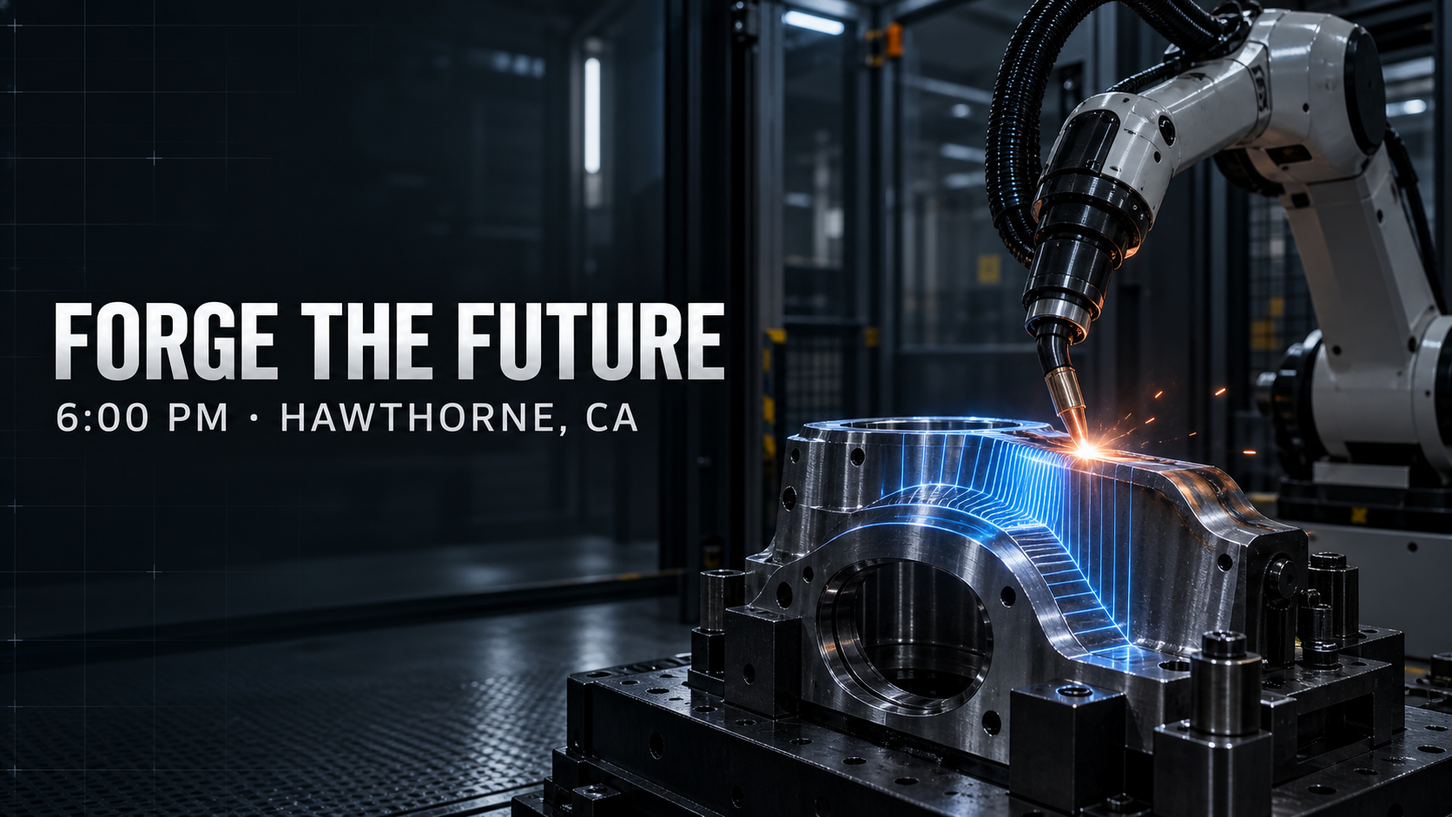
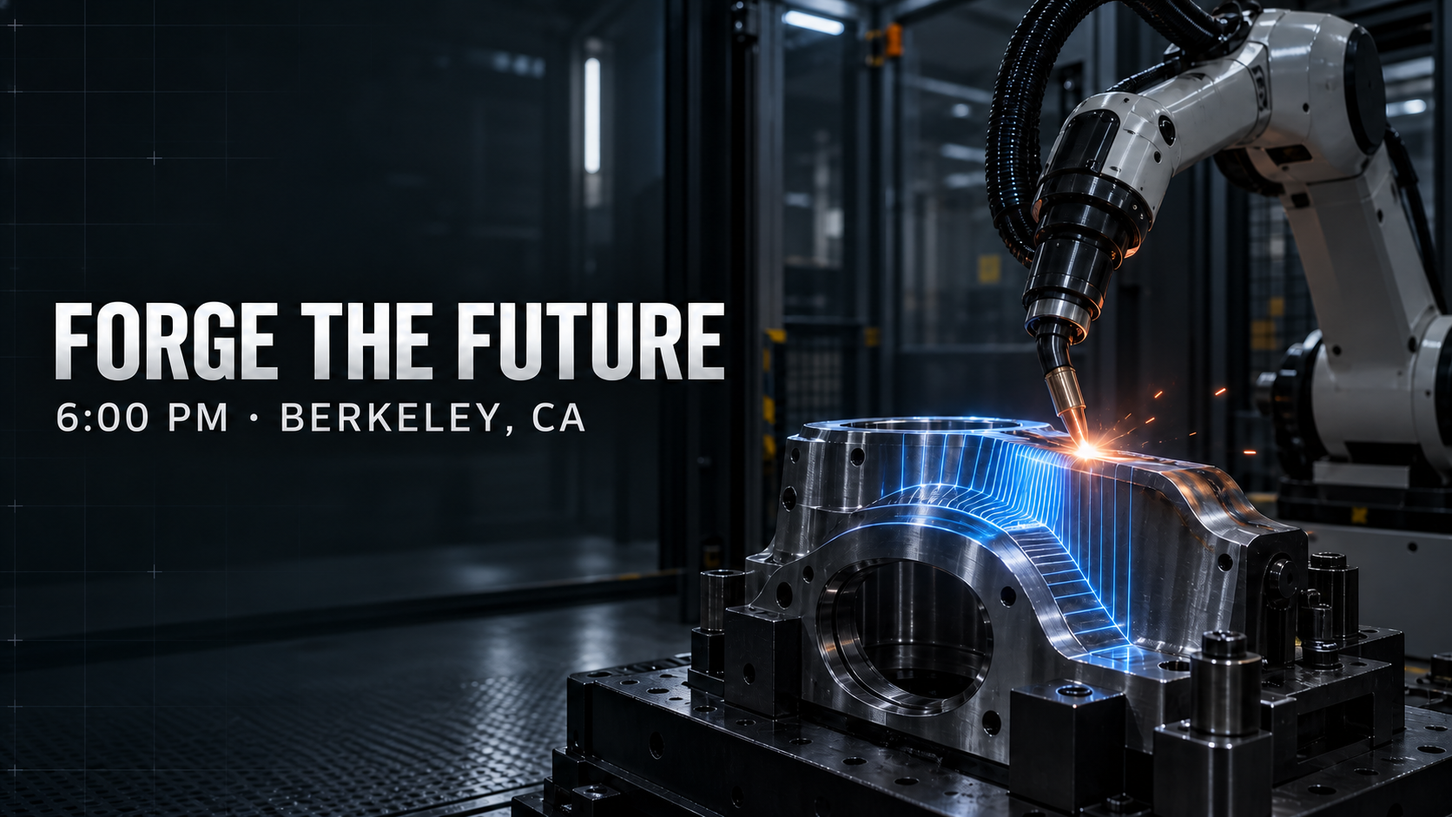
Move event to Berkeley and compact page

diff --git a/app/page.tsx b/app/page.tsx
@@ -2,61 +2,28 @@
 
 import Image from 'next/image';
 import {
-  ArrowDown,
   ArrowRight,
   ArrowUpRight,
   Bot,
-  Box,
+  BriefcaseBusiness,
   Check,
   CircuitBoard,
   Clock3,
-  Cpu,
   DraftingCompass,
-  Eye,
-  Factory,
   Flame,
-  Gauge,
+  MapPin,
   ScanLine,
   Share2,
-  Sparkles,
-  Wrench,
 } from 'lucide-react';
 import { useState } from 'react';
 
-const disciplines = ['Advanced manufacturing', 'Metallurgy', 'AI', 'Robotics'];
+const topics = ['Advanced manufacturing', 'Metallurgy', 'AI', 'Robotics'];
 
-const agenda = [
-  {
-    number: '01',
-    title: 'From CAD to robot path',
-    copy: 'Trace the mechanical stack from part geometry, fixtures and workholding to collision-free motion.',
-    icon: DraftingCompass,
-  },
-  {
-    number: '02',
-    title: 'See the weld',
-    copy: 'Explore cameras, sensors, calibration and structured-light inspection as the cell builds a 3D understanding.',
-    icon: ScanLine,
-  },
-  {
-    number: '03',
-    title: 'Close the loop',
-    copy: 'Connect heat, material behavior and metallurgical evidence to the next, better weld.',
-    icon: Flame,
-  },
-  {
-    number: '04',
-    title: 'Bring the hard problem',
-    copy: 'Swap ideas with builders working across robotics, controls, manufacturing software and applied AI.',
-    icon: Wrench,
-  },
-];
-
-const loop = [
-  { label: 'Build', detail: 'Robots + cells', icon: Bot },
-  { label: 'Weld', detail: 'Hard production parts', icon: Flame },
-  { label: 'See', detail: 'Geometry + quality', icon: Eye },
-  { label: 'Learn', detail: 'Improve the next weld', icon: Cpu },
+const program = [
+  { title: 'CAD → path', detail: 'Geometry, fixtures and robot motion', icon: DraftingCompass },
+  { title: 'Sense', detail: 'Vision, calibration and seam tracking', icon: ScanLine },
+  { title: 'Weld', detail: 'Heat, materials and production reality', icon: Flame },
+  { title: 'Learn', detail: 'Inspection evidence into the next weld', icon: Bot },
 ];
 
 export default function Home() {
@@ -64,8 +31,8 @@ export default function Home() {
 
   async function shareEvent() {
     const shareData = {
-      title: 'Forge the Future — Advanced Metal Research',
-      text: 'Join engineers at 6:00 PM for an evening of advanced manufacturing, metallurgy, AI, and robotics.',
+      title: 'Forge the Future — Berkeley',
+      text: 'Join engineers in Berkeley at 6:00 PM for advanced manufacturing, metallurgy, AI, and robotics.',
       url: window.location.href,
     };
 
@@ -83,201 +50,110 @@ export default function Home() {
   }
 
   return (
-    <main className="min-h-screen overflow-hidden bg-background text-foreground">
-      <nav className="relative z-20 mx-auto flex w-full max-w-[1480px] items-center justify-between px-5 py-5 sm:px-8 lg:px-12">
-        <a href="#top" className="flex items-center gap-3" aria-label="Advanced Metal Research event home">
-          <span className="grid h-9 w-9 place-items-center bg-copper text-[10px] font-black tracking-[-0.08em] text-ink">AMR</span>
-          <span className="hidden text-[11px] font-semibold uppercase leading-tight tracking-[0.19em] text-white/80 sm:block">
-            Advanced Metal<br />Research
-          </span>
+    <main className="min-h-screen overflow-hidden bg-ink text-white">
+      <nav className="relative z-20 mx-auto flex h-16 w-full max-w-[1380px] items-center justify-between px-5 sm:px-8 lg:px-10">
+        <a href="#top" className="flex items-center gap-3" aria-label="Forge the Future home">
+          <span className="grid h-8 w-8 place-items-center bg-copper text-[9px] font-black tracking-[-0.08em] text-ink">AMR</span>
+          <span className="hidden text-[10px] font-semibold uppercase tracking-[0.18em] text-white/70 sm:block">Forge the Future</span>
         </a>
-        <div className="flex items-center gap-5">
-          <span className="hidden text-[11px] uppercase tracking-[0.2em] text-white/45 md:block">Manufacturing intelligence · Hawthorne</span>
-          <button
-            type="button"
-            onClick={shareEvent}
-            className="group inline-flex h-10 cursor-pointer items-center gap-2 border border-white/20 px-4 text-xs font-semibold uppercase tracking-[0.14em] text-white transition hover:border-copper hover:bg-copper hover:text-ink focus-visible:outline-2 focus-visible:outline-offset-4 focus-visible:outline-scan"
-            aria-label="Share this event"
-          >
+        <div className="flex items-center gap-4">
+          <span className="hidden items-center gap-2 text-[10px] uppercase tracking-[0.18em] text-white/45 sm:flex"><MapPin className="h-3 w-3 text-copper" /> Berkeley, CA</span>
+          <button type="button" onClick={shareEvent} className="inline-flex h-9 cursor-pointer items-center gap-2 border border-white/20 px-3 text-[10px] font-bold uppercase tracking-[0.14em] transition hover:border-copper hover:bg-copper hover:text-ink focus-visible:outline-2 focus-visible:outline-offset-4 focus-visible:outline-scan" aria-label="Share this event">
             {shared ? <Check className="h-3.5 w-3.5" /> : <Share2 className="h-3.5 w-3.5" />}
-            {shared ? 'Link copied' : 'Share event'}
+            {shared ? 'Copied' : 'Share'}
           </button>
         </div>
       </nav>
 
-      <section id="top" className="relative mx-auto min-h-[calc(100svh-80px)] w-full max-w-[1480px] px-5 pb-10 sm:px-8 lg:px-12">
-        <div className="absolute inset-x-5 top-0 h-px bg-white/10 sm:inset-x-8 lg:inset-x-12" />
-        <div className="pointer-events-none absolute right-[6%] top-[6%] h-[38rem] w-[38rem] rounded-full bg-scan/10 blur-[150px]" />
-
-        <div className="relative grid min-h-[calc(100svh-112px)] items-end gap-10 pb-6 pt-14 lg:grid-cols-[1.03fr_0.97fr] lg:items-center lg:pb-0 lg:pt-0">
-          <div className="relative z-10 max-w-4xl lg:pr-4">
-            <div className="mb-9 flex flex-wrap gap-2">
-              {disciplines.map((discipline) => (
-                <span key={discipline} className="border border-white/15 bg-white/[0.03] px-3 py-1.5 text-[10px] font-medium uppercase tracking-[0.14em] text-white/60">
-                  {discipline}
-                </span>
-              ))}
+      <section id="top" className="relative mx-auto max-w-[1380px] px-5 pb-8 sm:px-8 lg:px-10">
+        <div className="absolute inset-x-5 top-0 h-px bg-white/10 sm:inset-x-8 lg:inset-x-10" />
+        <div className="grid min-h-[620px] gap-7 py-8 lg:h-[calc(100svh-64px)] lg:min-h-[620px] lg:max-h-[800px] lg:grid-cols-[1fr_0.9fr] lg:items-center">
+          <div className="relative z-10 max-w-3xl lg:pr-5">
+            <div className="mb-6 flex flex-wrap gap-1.5">
+              {topics.map((topic) => <span key={topic} className="border border-white/15 px-2.5 py-1 text-[9px] font-medium uppercase tracking-[0.13em] text-white/55">{topic}</span>)}
             </div>
-
-            <p className="mb-4 font-mono text-xs uppercase tracking-[0.28em] text-copper">An evening inside the manufacturing loop</p>
-            <h1 className="max-w-4xl font-display text-[clamp(4rem,9.2vw,8.6rem)] font-black uppercase leading-[0.79] tracking-[-0.075em] text-white">
+            <p className="mb-3 font-mono text-[11px] uppercase tracking-[0.25em] text-copper">Berkeley · 6:00 PM</p>
+            <h1 className="font-display text-[clamp(3.7rem,8vw,7.7rem)] font-black uppercase leading-[0.8] tracking-[-0.075em]">
               Forge<br /><span className="text-outline">the future.</span>
             </h1>
-            <p className="mt-8 max-w-xl text-base leading-7 text-white/60 sm:text-lg">
-              Meet the builders connecting mechanical design, mechatronics, metallurgy, AI and robotic welding—from CAD and fixtures to sensing, inspection and the next better weld.
+            <p className="mt-6 max-w-xl text-base leading-7 text-white/60">
+              One focused evening connecting mechanical design, mechatronics, metallurgy, AI and robotic welding.
             </p>
 
-            <div className="mt-10 flex flex-wrap items-stretch gap-px bg-white/15">
-              <div className="flex min-w-44 flex-1 items-center gap-4 bg-ink px-5 py-4">
-                <Clock3 className="h-5 w-5 text-copper" strokeWidth={1.5} />
-                <div><p className="text-[10px] uppercase tracking-[0.2em] text-white/40">Event start</p><p className="mt-1 text-lg font-semibold text-white">6:00 PM</p></div>
-              </div>
-              <div className="flex min-w-52 flex-[1.25] items-center gap-4 bg-ink px-5 py-4">
-                <Factory className="h-5 w-5 text-copper" strokeWidth={1.5} />
-                <div><p className="text-[10px] uppercase tracking-[0.2em] text-white/40">AMR home base</p><p className="mt-1 text-lg font-semibold text-white">Hawthorne, CA</p></div>
-              </div>
+            <div className="mt-7 grid max-w-2xl grid-cols-2 gap-px bg-white/15 sm:grid-cols-3">
+              <div className="flex items-center gap-3 bg-ink px-4 py-3.5"><Clock3 className="h-4 w-4 text-copper" /><div><p className="micro-label">Starts</p><p className="mt-0.5 text-sm font-semibold">6:00 PM</p></div></div>
+              <div className="flex items-center gap-3 bg-ink px-4 py-3.5"><MapPin className="h-4 w-4 text-copper" /><div><p className="micro-label">Event</p><p className="mt-0.5 text-sm font-semibold">Berkeley, CA</p></div></div>
+              <div className="col-span-2 flex items-center gap-3 bg-ink px-4 py-3.5 sm:col-span-1"><CircuitBoard className="h-4 w-4 text-copper" /><div><p className="micro-label">Priority</p><p className="mt-0.5 text-sm font-semibold">ME + Mechatronics</p></div></div>
             </div>
           </div>
 
-          <aside className="relative mt-2 min-h-[360px] overflow-hidden border border-white/10 bg-panel sm:min-h-[520px] lg:min-h-[640px]" aria-label="Robotic welding event visual">
-            <Image src="/hero.png" alt="Robotic welding cell scanning a precision metal workpiece" fill priority sizes="(min-width: 1024px) 46vw, 100vw" className="object-cover object-center lg:object-[60%_center]" />
-            <div className="absolute inset-0 bg-gradient-to-t from-ink via-transparent to-transparent opacity-75" />
-            <div className="absolute bottom-6 left-6 right-6 flex items-end justify-between border-t border-white/20 pt-4 sm:bottom-7 sm:left-7 sm:right-7 sm:pt-5">
-              <div>
-                <p className="font-mono text-[10px] uppercase tracking-[0.22em] text-scan">Front-row focus</p>
-                <p className="mt-2 max-w-xs text-xl font-semibold leading-tight text-white sm:text-2xl">Mechanical +<br />mechatronics engineers</p>
-              </div>
-              <span className="font-mono text-[10px] text-white/40">CELL / 01</span>
+          <aside className="relative min-h-[310px] overflow-hidden border border-white/10 bg-panel sm:min-h-[390px] lg:h-[min(66vh,590px)]" aria-label="Robotic welding event visual">
+            <Image src="/hero.png" alt="Robotic welding cell scanning a precision metal workpiece" fill priority sizes="(min-width: 1024px) 45vw, 100vw" className="object-cover object-[68%_center]" />
+            <div className="absolute inset-0 bg-gradient-to-t from-ink/95 via-transparent to-transparent" />
+            <div className="absolute bottom-5 left-5 right-5 flex items-end justify-between border-t border-white/20 pt-4">
+              <div><p className="font-mono text-[9px] uppercase tracking-[0.2em] text-scan">Engineer focus</p><p className="mt-1.5 text-lg font-semibold">Mechanisms → motion → evidence</p></div>
+              <span className="font-mono text-[9px] text-white/35">CELL / 01</span>
             </div>
           </aside>
-        </div>
-
-        <a href="#engineers" aria-label="Explore event details" className="absolute bottom-10 right-5 hidden h-12 w-12 place-items-center border border-white/15 text-white/60 transition hover:border-copper hover:text-copper sm:grid lg:right-12">
-          <ArrowDown className="h-4 w-4" />
-        </a>
-      </section>
-
-      <section id="engineers" className="bg-paper text-charcoal">
-        <div className="mx-auto max-w-[1480px] px-5 py-24 sm:px-8 sm:py-32 lg:px-12">
-          <div className="grid gap-12 border-b border-charcoal/20 pb-20 lg:grid-cols-[0.72fr_1.28fr] lg:gap-24">
-            <div>
-              <p className="section-label text-red">01 / Who it’s for</p>
-              <div className="mt-8 flex h-20 w-20 items-center justify-center rounded-full border border-charcoal/20">
-                <Gauge className="h-8 w-8" strokeWidth={1.35} />
-              </div>
-            </div>
-            <div>
-              <h2 className="max-w-4xl font-display text-[clamp(2.8rem,6vw,6.2rem)] font-semibold leading-[0.92] tracking-[-0.055em]">
-                Where mechanics meet <em className="font-serif font-normal text-red">machine intelligence.</em>
-              </h2>
-              <p className="mt-8 max-w-2xl text-lg leading-8 text-charcoal/65">
-                This is for people who want the whole system—not a sealed-box robot demo. Follow forces, fit-up and tolerances into drives, sensing, control loops and measured evidence.
-              </p>
-            </div>
-          </div>
-
-          <div className="grid border-b border-charcoal/20 md:grid-cols-2">
-            <article className="border-charcoal/20 py-12 md:border-r md:pr-12 lg:py-16 lg:pr-20">
-              <Box className="h-8 w-8 text-red" strokeWidth={1.4} />
-              <p className="mt-9 section-label">Mechanical engineers</p>
-              <h3 className="mt-4 text-3xl font-semibold tracking-[-0.035em]">See the physical system think.</h3>
-              <p className="mt-5 max-w-xl leading-7 text-charcoal/65">Robot joints and links, fixtures, workholding, CAD-to-path planning, thermal distortion and the geometry that determines weld quality.</p>
-              <ul className="mt-8 grid gap-3 text-sm font-medium sm:grid-cols-2">
-                {['Six-axis robot architecture', 'GD&T + 3D reconstruction', 'Positioning + work envelopes', 'Materials + heat input'].map((item) => <li className="flex items-center gap-2" key={item}><span className="h-1.5 w-1.5 bg-red" />{item}</li>)}
-              </ul>
-            </article>
-            <article className="py-12 md:pl-12 lg:py-16 lg:pl-20">
-              <CircuitBoard className="h-8 w-8 text-red" strokeWidth={1.4} />
-              <p className="mt-9 section-label">Mechatronics engineers</p>
-              <h3 className="mt-4 text-3xl font-semibold tracking-[-0.035em]">Follow sensing into motion.</h3>
-              <p className="mt-5 max-w-xl leading-7 text-charcoal/65">Servos, encoders, cameras, calibration and safety interlocks working as one real-time system—with evidence an engineer can inspect.</p>
-              <ul className="mt-8 grid gap-3 text-sm font-medium sm:grid-cols-2">
-                {['Real-time motion control', 'Vision + seam tracking', 'Sensors + feedback loops', 'Simulation before motion'].map((item) => <li className="flex items-center gap-2" key={item}><span className="h-1.5 w-1.5 bg-red" />{item}</li>)}
-              </ul>
-            </article>
-          </div>
-        </div>
-      </section>
-
-      <section className="bg-steel text-white">
-        <div className="mx-auto max-w-[1480px] px-5 py-24 sm:px-8 sm:py-32 lg:px-12">
-          <div className="grid gap-10 lg:grid-cols-[0.72fr_1.28fr] lg:gap-24">
-            <div>
-              <p className="section-label text-copper">02 / The evening</p>
-              <p className="mt-8 max-w-xs text-sm leading-6 text-white/45">Four perspectives on one connected manufacturing system. The conversation starts at 6:00 PM.</p>
-            </div>
-            <div>
-              <h2 className="max-w-4xl font-display text-[clamp(2.7rem,5vw,5.6rem)] font-semibold leading-[0.94] tracking-[-0.055em]">From a hard part to a learning production loop.</h2>
-              <div className="mt-14 border-t border-white/15">
-                {agenda.map(({ number, title, copy, icon: Icon }) => (
-                  <article key={number} className="group grid gap-5 border-b border-white/15 py-7 transition-colors hover:border-copper/70 sm:grid-cols-[70px_54px_0.9fr_1.1fr] sm:items-center sm:gap-7">
-                    <span className="font-mono text-xs text-copper">{number}</span>
-                    <Icon className="h-6 w-6 text-white/40 transition group-hover:text-copper" strokeWidth={1.4} />
-                    <h3 className="text-xl font-semibold tracking-tight">{title}</h3>
-                    <p className="text-sm leading-6 text-white/50">{copy}</p>
-                  </article>
-                ))}
-              </div>
-            </div>
-          </div>
         </div>
       </section>
 
       <section className="bg-paper text-charcoal">
-        <div className="mx-auto max-w-[1480px] px-5 py-24 sm:px-8 sm:py-32 lg:px-12">
-          <div className="flex flex-col justify-between gap-8 sm:flex-row sm:items-end">
+        <div className="mx-auto max-w-[1380px] px-5 py-16 sm:px-8 lg:px-10 lg:py-20">
+          <div className="grid gap-8 lg:grid-cols-[0.72fr_1.28fr] lg:gap-16">
             <div>
-              <p className="section-label text-red">03 / Inside AMR</p>
-              <h2 className="mt-7 max-w-3xl font-display text-[clamp(2.7rem,5vw,5.4rem)] font-semibold leading-[0.94] tracking-[-0.055em]">One roof. The full stack.</h2>
+              <p className="section-label text-red">The short version</p>
+              <h2 className="mt-4 max-w-lg font-display text-[clamp(2.5rem,4.8vw,5rem)] font-semibold leading-[0.92] tracking-[-0.055em]">One evening.<br /><em className="font-serif font-normal text-red">The full stack.</em></h2>
+              <p className="mt-5 max-w-md text-sm leading-6 text-charcoal/60">Built for people who want to see how the physical system and machine intelligence work together—not a sealed-box robot demo.</p>
             </div>
-            <a href="https://advancedmetalresearch.com/about" target="_blank" rel="noreferrer" className="group inline-flex items-center gap-2 self-start border-b border-charcoal pb-1 text-xs font-bold uppercase tracking-[0.16em] sm:self-auto">
-              Explore AMR <ArrowUpRight className="h-4 w-4 transition-transform group-hover:-translate-y-0.5 group-hover:translate-x-0.5" />
-            </a>
+
+            <div className="grid gap-px bg-charcoal/20 sm:grid-cols-2">
+              {program.map(({ title, detail, icon: Icon }, index) => (
+                <article key={title} className="group bg-paper p-5 lg:p-6">
+                  <div className="flex items-start justify-between"><Icon className="h-5 w-5 text-red" strokeWidth={1.4} /><span className="font-mono text-[9px] text-charcoal/35">0{index + 1}</span></div>
+                  <h3 className="mt-8 text-xl font-semibold tracking-[-0.03em]">{title}</h3>
+                  <p className="mt-2 text-sm leading-6 text-charcoal/55">{detail}</p>
+                </article>
+              ))}
+            </div>
           </div>
 
-          <div className="mt-14 grid gap-px bg-charcoal/20 sm:grid-cols-3">
-            {[['8,250', 'sq ft Hawthorne facility'], ['400A / 480V', 'industrial power'], ['50+1', 'VF-4SS tool changer']].map(([value, label]) => (
-              <div key={value} className="bg-paper px-6 py-9 lg:px-9">
-                <p className="font-display text-4xl font-semibold tracking-[-0.05em] lg:text-5xl">{value}</p>
-                <p className="mt-3 text-xs uppercase tracking-[0.16em] text-charcoal/50">{label}</p>
-              </div>
-            ))}
-          </div>
+          <div className="mt-10 grid gap-px bg-charcoal/20 lg:grid-cols-2">
+            <article className="bg-charcoal p-6 text-white sm:p-8">
+              <CircuitBoard className="h-6 w-6 text-copper" strokeWidth={1.4} />
+              <p className="mt-6 section-label text-white/45">Mechanical + mechatronics</p>
+              <h3 className="mt-3 text-2xl font-semibold tracking-[-0.035em]">Front-row technical focus.</h3>
+              <p className="mt-3 max-w-xl text-sm leading-6 text-white/55">Fixtures, workholding, robot architecture, servos, encoders, calibration, safety interlocks, feedback loops and 3D inspection.</p>
+            </article>
 
-          <div className="mt-px grid gap-px bg-charcoal/20 sm:grid-cols-2 lg:grid-cols-4">
-            {loop.map(({ label, detail, icon: Icon }, index) => (
-              <div key={label} className="group bg-charcoal p-7 text-white lg:p-9">
-                <div className="flex items-start justify-between"><Icon className="h-7 w-7 text-copper" strokeWidth={1.4} /><span className="font-mono text-[10px] text-white/25">0{index + 1}</span></div>
-                <p className="mt-16 text-2xl font-semibold">{label}</p>
-                <p className="mt-2 text-sm text-white/45">{detail}</p>
-              </div>
-            ))}
+            <article className="relative overflow-hidden bg-red p-6 text-white sm:p-8">
+              <div className="pointer-events-none absolute -right-14 -top-20 h-56 w-56 rounded-full border-[56px] border-white/[0.05]" />
+              <BriefcaseBusiness className="relative h-6 w-6 text-copper" strokeWidth={1.4} />
+              <p className="relative mt-6 section-label text-white/55">Beyond the event</p>
+              <h3 className="relative mt-3 text-2xl font-semibold tracking-[-0.035em]">Explore potential internships in Hawthorne.</h3>
+              <p className="relative mt-3 max-w-xl text-sm leading-6 text-white/65">Meet the team and learn about possible hands-on opportunities at AMR’s 8,250 sq ft Los Angeles-area shop—directly next to SpaceX headquarters.</p>
+              <p className="relative mt-4 text-[10px] uppercase tracking-[0.14em] text-white/40">Opportunities depend on AMR availability and selection.</p>
+            </article>
           </div>
         </div>
       </section>
 
-      <section id="reserve" className="relative overflow-hidden bg-red text-white">
-        <div className="pointer-events-none absolute -right-24 -top-32 h-[34rem] w-[34rem] rounded-full border-[110px] border-white/[0.035]" />
-        <div className="relative mx-auto grid max-w-[1480px] gap-12 px-5 py-24 sm:px-8 sm:py-32 lg:grid-cols-[1.15fr_0.85fr] lg:px-12">
+      <section id="reserve" className="bg-red text-white">
+        <div className="mx-auto grid max-w-[1380px] items-center gap-7 px-5 py-12 sm:px-8 md:grid-cols-[1fr_auto] lg:px-10 lg:py-14">
           <div>
-            <p className="section-label text-white/60">04 / Join the room</p>
-            <h2 className="mt-7 max-w-4xl font-display text-[clamp(3.5rem,8vw,8rem)] font-black uppercase leading-[0.82] tracking-[-0.07em]">Bring your<br />hard problem.</h2>
+            <p className="section-label text-white/55">Berkeley · 6:00 PM</p>
+            <h2 className="mt-3 font-display text-[clamp(2.5rem,5vw,5rem)] font-black uppercase leading-[0.88] tracking-[-0.06em]">Bring your hard problem.</h2>
           </div>
-          <div className="flex flex-col justify-end">
-            <Sparkles className="h-8 w-8 text-copper" strokeWidth={1.5} />
-            <p className="mt-8 max-w-md text-lg leading-8 text-white/75">If you think in mechanisms, controls, materials, code—or all four—you belong in this conversation.</p>
-            <a href="https://advancedmetalresearch.com/contact?subject=Forge%20the%20Future%20event" target="_blank" rel="noreferrer" className="group mt-9 inline-flex w-full items-center justify-between bg-paper px-6 py-5 text-sm font-bold uppercase tracking-[0.16em] text-charcoal transition hover:bg-copper sm:w-auto sm:min-w-80">
-              Request an invitation <ArrowRight className="h-5 w-5 transition-transform group-hover:translate-x-1" />
-            </a>
-            <p className="mt-5 max-w-md text-xs leading-5 text-white/45">Starts at 6:00 PM. The event date and exact address will be confirmed by the host.</p>
-          </div>
+          <a href="https://advancedmetalresearch.com/contact?subject=Forge%20the%20Future%20Berkeley%20event" target="_blank" rel="noreferrer" className="group inline-flex min-w-72 items-center justify-between bg-paper px-5 py-4 text-xs font-bold uppercase tracking-[0.15em] text-charcoal transition hover:bg-copper">
+            Request an invitation <ArrowRight className="h-4 w-4 transition-transform group-hover:translate-x-1" />
+          </a>
         </div>
       </section>
 
       <footer className="bg-ink text-white">
-        <div className="mx-auto flex max-w-[1480px] flex-col gap-6 px-5 py-8 text-[10px] uppercase tracking-[0.18em] text-white/40 sm:flex-row sm:items-center sm:justify-between sm:px-8 lg:px-12">
-          <p>Advanced Metal Research · Hawthorne, California</p>
-          <div className="flex gap-6"><a className="transition hover:text-white" href="https://advancedmetalresearch.com" target="_blank" rel="noreferrer">Source site</a><button type="button" onClick={shareEvent} className="cursor-pointer transition hover:text-white">Share event</button></div>
+        <div className="mx-auto flex max-w-[1380px] flex-col gap-4 px-5 py-6 text-[9px] uppercase tracking-[0.16em] text-white/40 sm:flex-row sm:items-center sm:justify-between sm:px-8 lg:px-10">
+          <p>Event in Berkeley · AMR based in Hawthorne, California</p>
+          <div className="flex gap-5"><a className="inline-flex items-center gap-1 transition hover:text-white" href="https://advancedmetalresearch.com/about" target="_blank" rel="noreferrer">About AMR <ArrowUpRight className="h-3 w-3" /></a><button type="button" onClick={shareEvent} className="cursor-pointer transition hover:text-white">Share</button></div>
         </div>
       </footer>
     </main>

diff --git a/app/layout.tsx b/app/layout.tsx
@@ -15,19 +15,19 @@ const geistMono = Geist_Mono({
 export const metadata: Metadata = {
   title: 'Forge the Future | Advanced Metal Research',
   description:
-    'A 6 PM evening for engineers exploring robotic welding, metallurgy, AI, and the next manufacturing stack in Hawthorne, California.',
+    'A 6 PM Berkeley evening for engineers exploring robotic welding, metallurgy, AI, and the next manufacturing stack.',
   metadataBase: new URL('https://forge-the-future-amr.lilahbenckendorf.chatgpt.site'),
   openGraph: {
     title: 'Forge the Future | Advanced Metal Research',
     description:
-      'A 6 PM evening for mechanical and mechatronics engineers exploring advanced manufacturing, metallurgy, AI, and robotics.',
+      'A 6 PM Berkeley evening for mechanical and mechatronics engineers exploring advanced manufacturing, metallurgy, AI, robotics, and potential Hawthorne internships.',
     images: ['/og.png'],
   },
   twitter: {
     card: 'summary_large_image',
     title: 'Forge the Future | Advanced Metal Research',
     description:
-      'A 6 PM evening for mechanical and mechatronics engineers exploring advanced manufacturing, metallurgy, AI, and robotics.',
+      'A 6 PM Berkeley evening for mechanical and mechatronics engineers exploring advanced manufacturing, metallurgy, AI, robotics, and potential Hawthorne internships.',
     images: ['/og.png'],
   },
 };

diff --git a/app/globals.css b/app/globals.css
@@ -75,6 +75,15 @@ button, a { -webkit-tap-highlight-color: transparent; }
   text-transform: uppercase;
 }
 
+.micro-label {
+  font-family: var(--font-geist-mono), monospace;
+  font-size: 0.55rem;
+  letter-spacing: 0.18em;
+  line-height: 1;
+  text-transform: uppercase;
+  color: rgb(255 255 255 / 36%);
+}
+
 .text-outline {
   color: transparent;
   -webkit-text-stroke: 1px rgb(255 255 255 / 42%);
